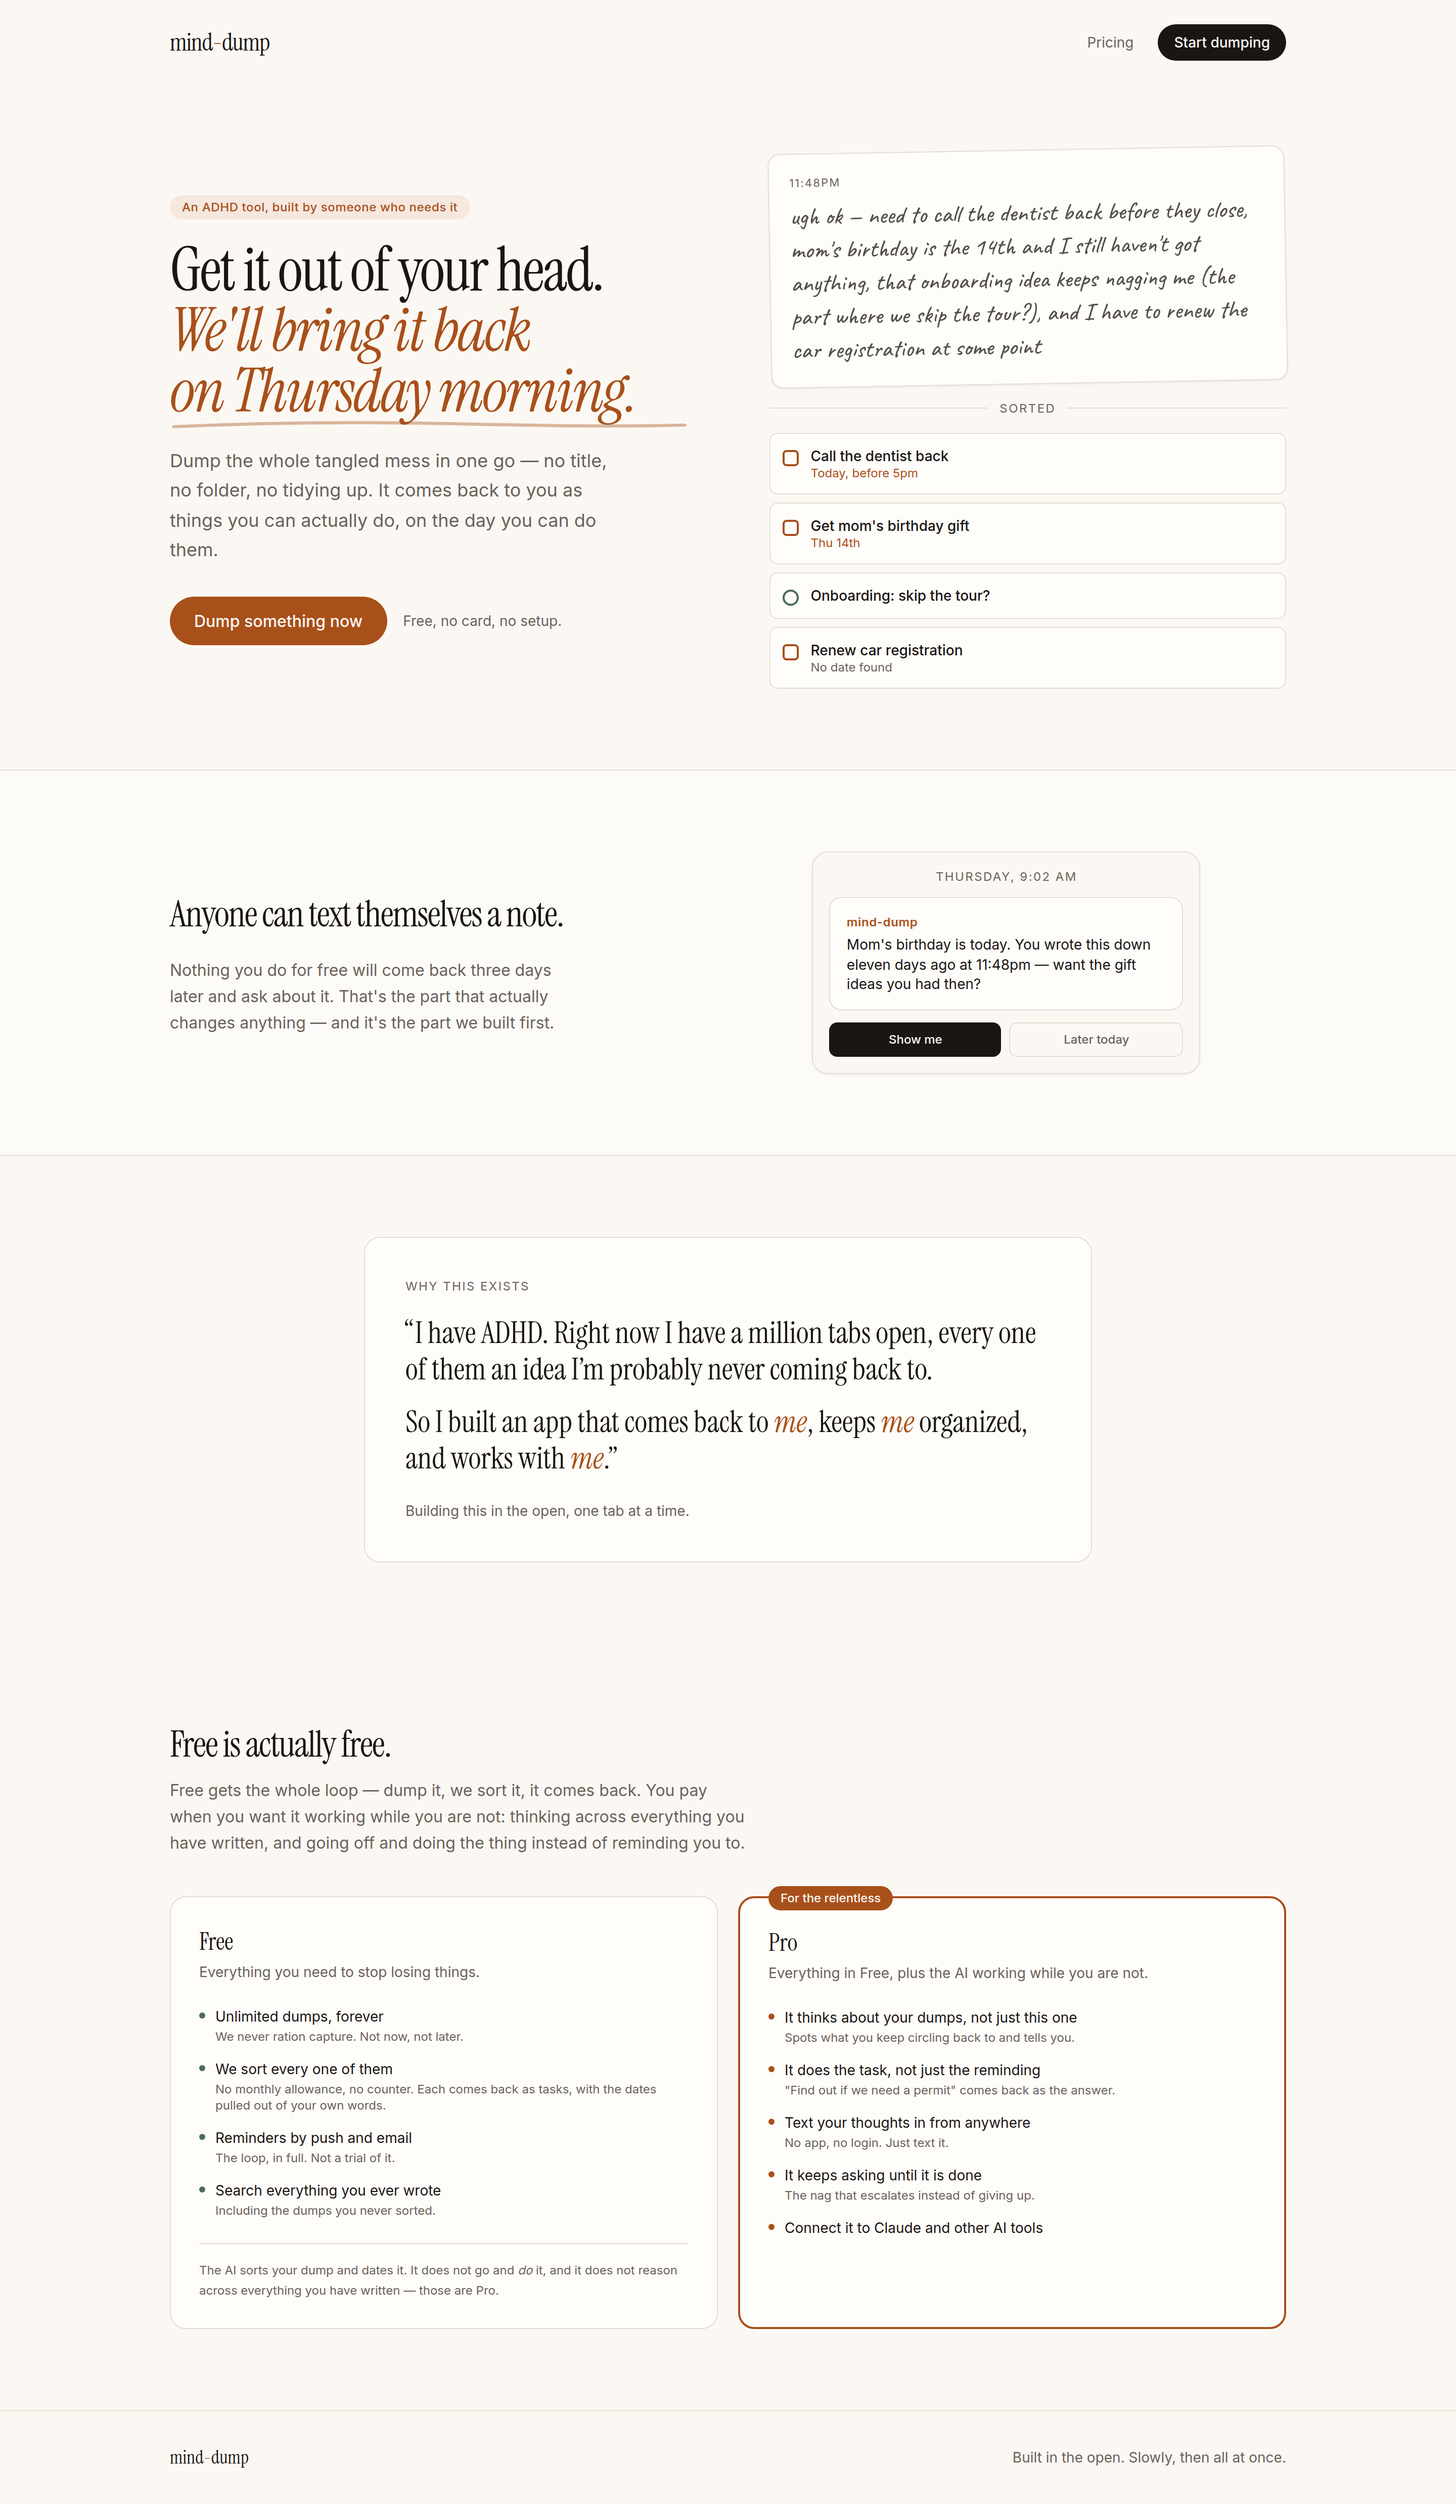
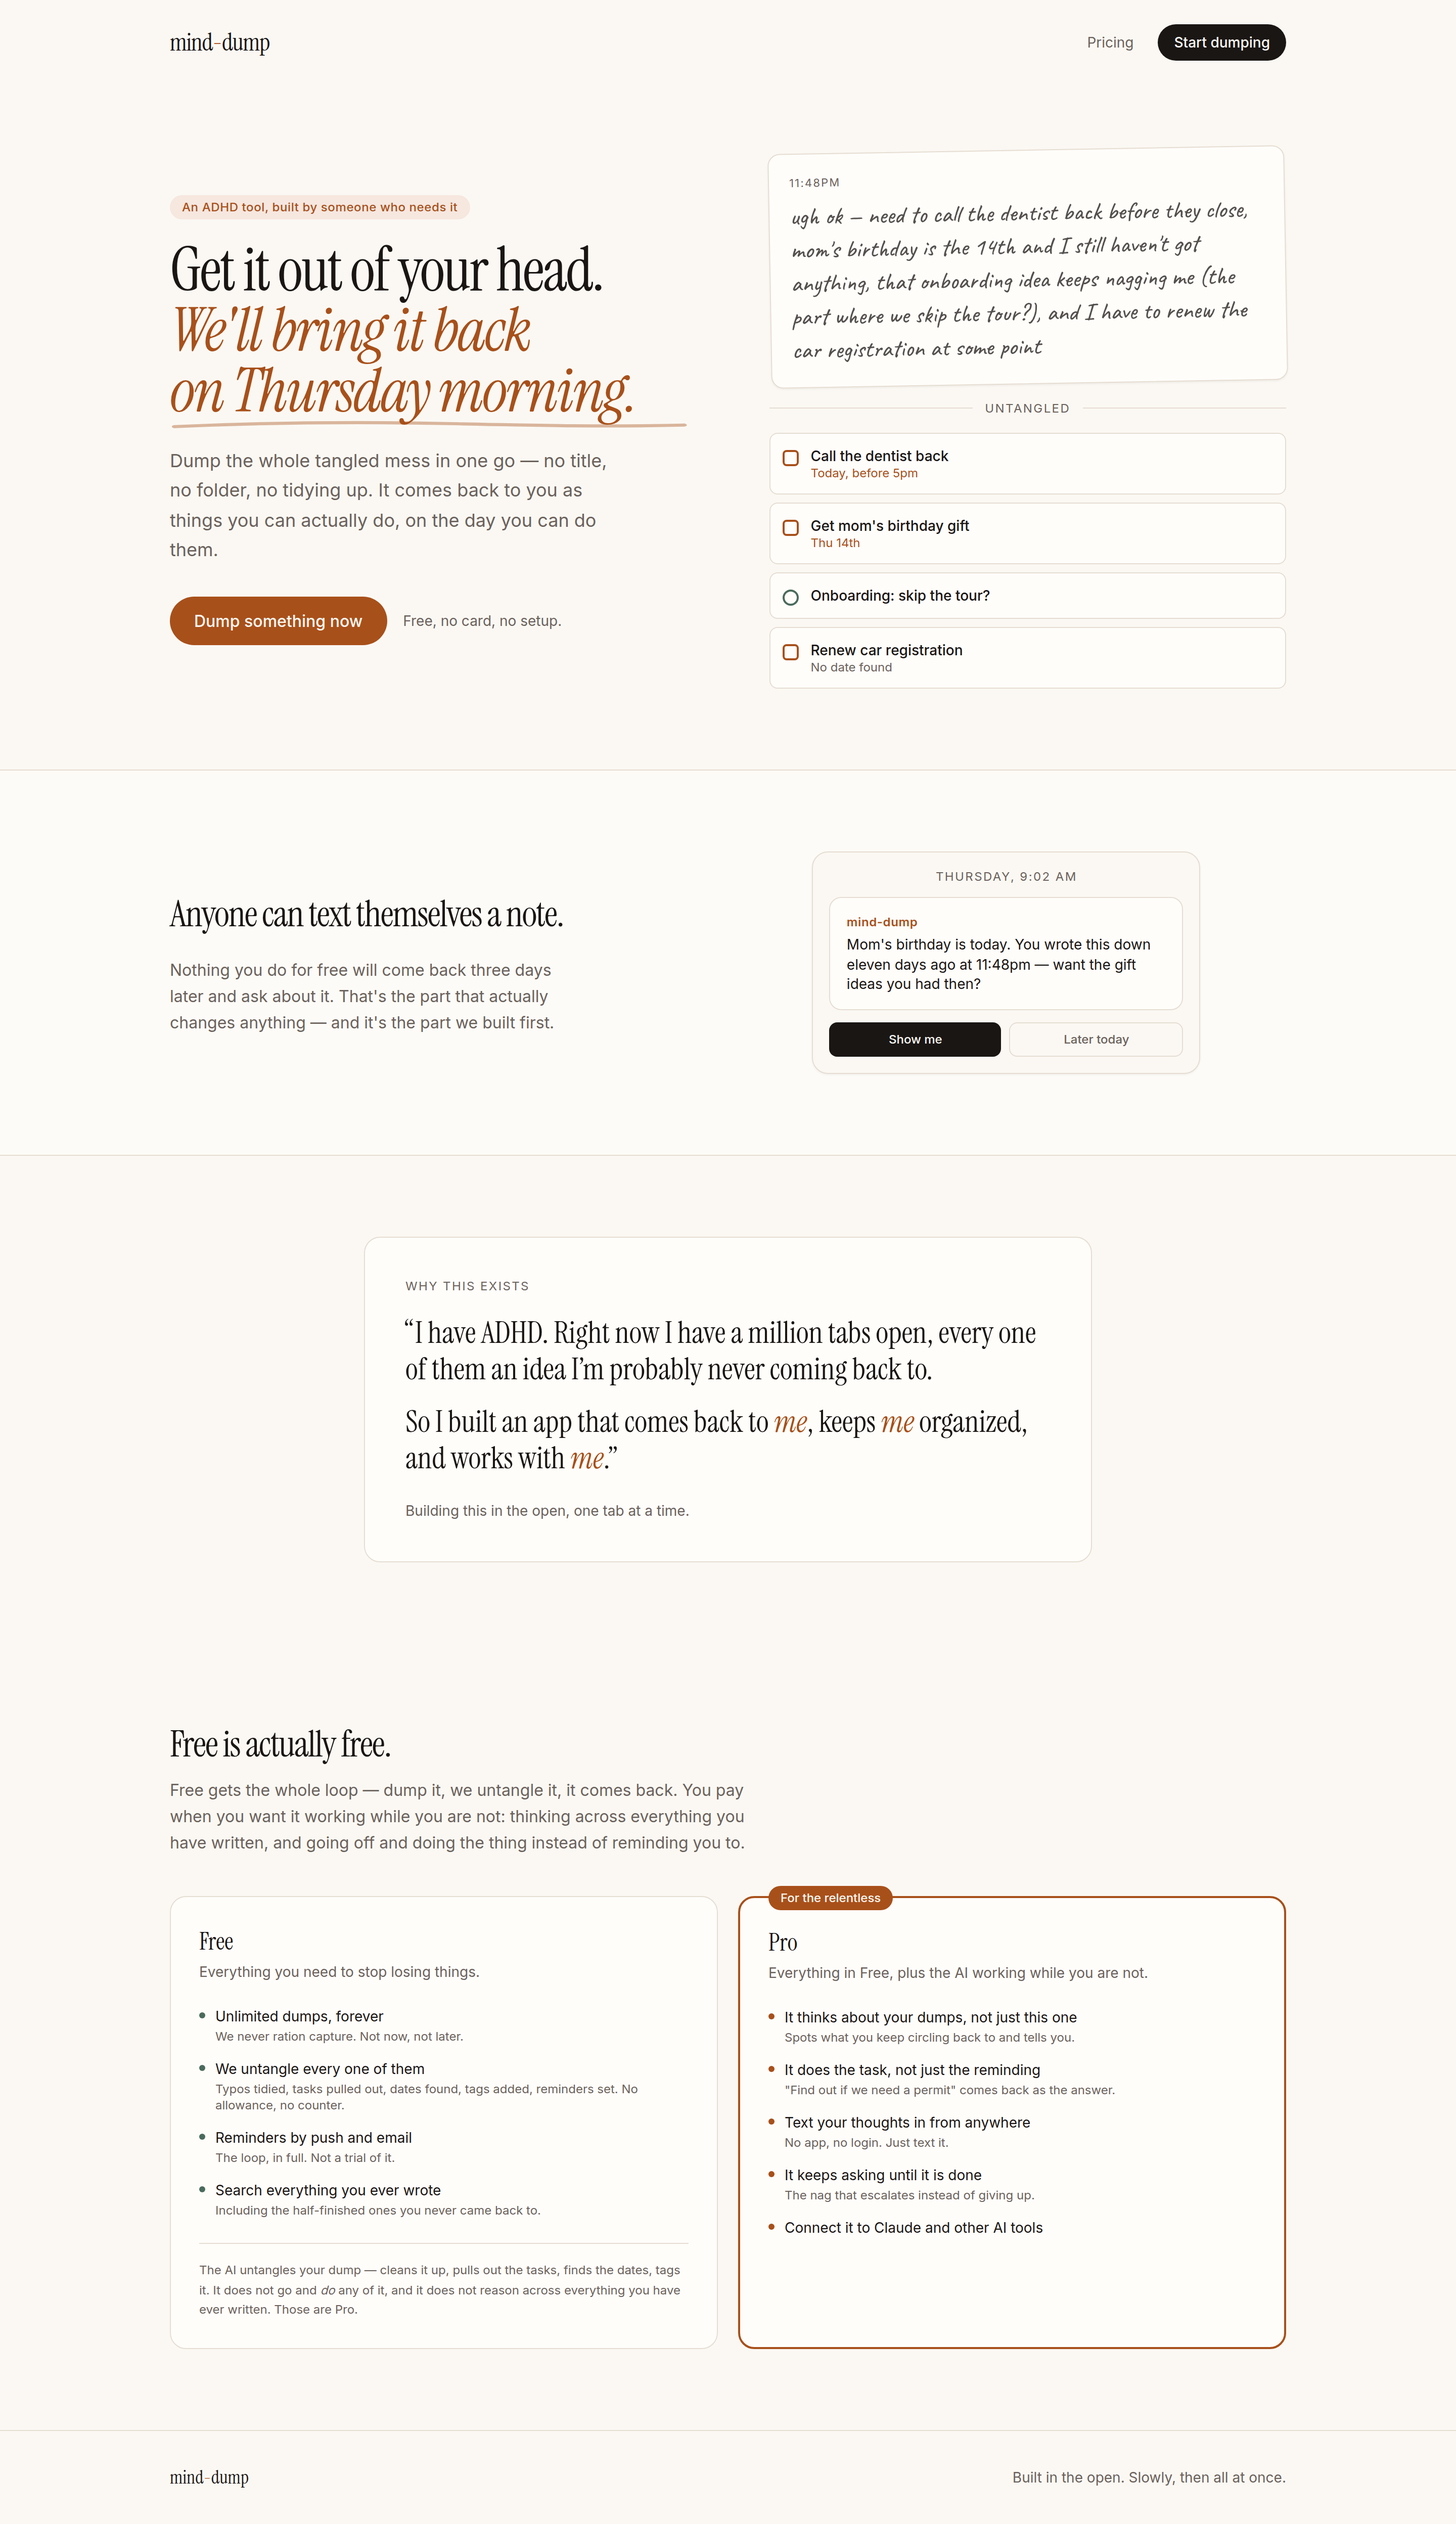
Replace "sort" with "untangle" and say what it actually does
"Sort" implied ordering, which undersold the work. The pass proofreads, pulls
out tasks, infers dates, tags, and sets reminders — a verb that only means
"arrange" was leaving most of that invisible.

"Untangle" was already planted: the hero reads "Dump the whole tangled mess in
one go", so tangled to untangled is a payoff the page had set up and never
collected. It is one word, it implies a mess being resolved rather than merely
ordered, and it works as the hero divider label — SORTED is now UNTANGLED.

The bigger fix is the note under it, which now enumerates instead of leaning on
the verb: "Typos tidied, tasks pulled out, dates found, tags added, reminders
set." One strong word still cannot carry five jobs.

Also rewrites the Free card's boundary sentence, which an earlier search and
replace had mangled into "It does not go and do reason across everything you
have written". Lint and typecheck both passed on it — they check JSX, not
English — so copy changes need reading, not just building.

Refs #8, #12

diff --git a/apps/web/src/pages/LandingPage.tsx b/apps/web/src/pages/LandingPage.tsx
@@ -129,7 +129,7 @@ function Hero() {
 
           <div className="relative my-4 flex items-center justify-center">
             <div className="h-px flex-1 bg-rule" />
-            <span className="px-3 text-xs tracking-widest text-muted">SORTED</span>
+            <span className="px-3 text-xs tracking-widest text-muted">UNTANGLED</span>
             <div className="h-px flex-1 bg-rule" />
           </div>
 
@@ -227,11 +227,11 @@ function FeatureList({ items, dot }: { items: Feature[]; dot: string }) {
 const FREE: Feature[] = [
   { label: 'Unlimited dumps, forever', note: 'We never ration capture. Not now, not later.' },
   {
-    label: 'We sort every one of them',
-    note: 'No monthly allowance, no counter. Each comes back as tasks, with the dates pulled out of your own words.',
+    label: 'We untangle every one of them',
+    note: 'Typos tidied, tasks pulled out, dates found, tags added, reminders set. No allowance, no counter.',
   },
   { label: 'Reminders by push and email', note: 'The loop, in full. Not a trial of it.' },
-  { label: 'Search everything you ever wrote', note: 'Including the dumps you never sorted.' },
+  { label: 'Search everything you ever wrote', note: 'Including the half-finished ones you never came back to.' },
 ];
 
 const PRO: Feature[] = [
@@ -253,7 +253,7 @@ function Pricing() {
     <section id="pricing" className="mx-auto max-w-6xl px-6 py-20">
       <h2 className="font-display text-4xl tracking-tight">Free is actually free.</h2>
       <p className="mt-3 max-w-xl leading-relaxed text-muted">
-        Free gets the whole loop — dump it, we sort it, it comes back. You pay when you want it
+        Free gets the whole loop — dump it, we untangle it, it comes back. You pay when you want it
         working while you are not: thinking across everything you have written, and going off and
         doing the thing instead of reminding you to.
       </p>
@@ -264,8 +264,9 @@ function Pricing() {
           <p className="mt-1 text-sm text-muted">Everything you need to stop losing things.</p>
           <FeatureList items={FREE} dot="bg-sage" />
           <p className="mt-6 border-t border-rule pt-4 text-xs leading-relaxed text-muted">
-            The AI sorts your dump and dates it. It does not go and <em>do</em> it, and it does not
-            reason across everything you have written — those are Pro.
+            The AI untangles your dump — cleans it up, pulls out the tasks, finds the dates, tags
+            it. It does not go and <em>do</em> any of it, and it does not reason across everything
+            you have ever written. Those are Pro.
           </p>
         </div>
 
